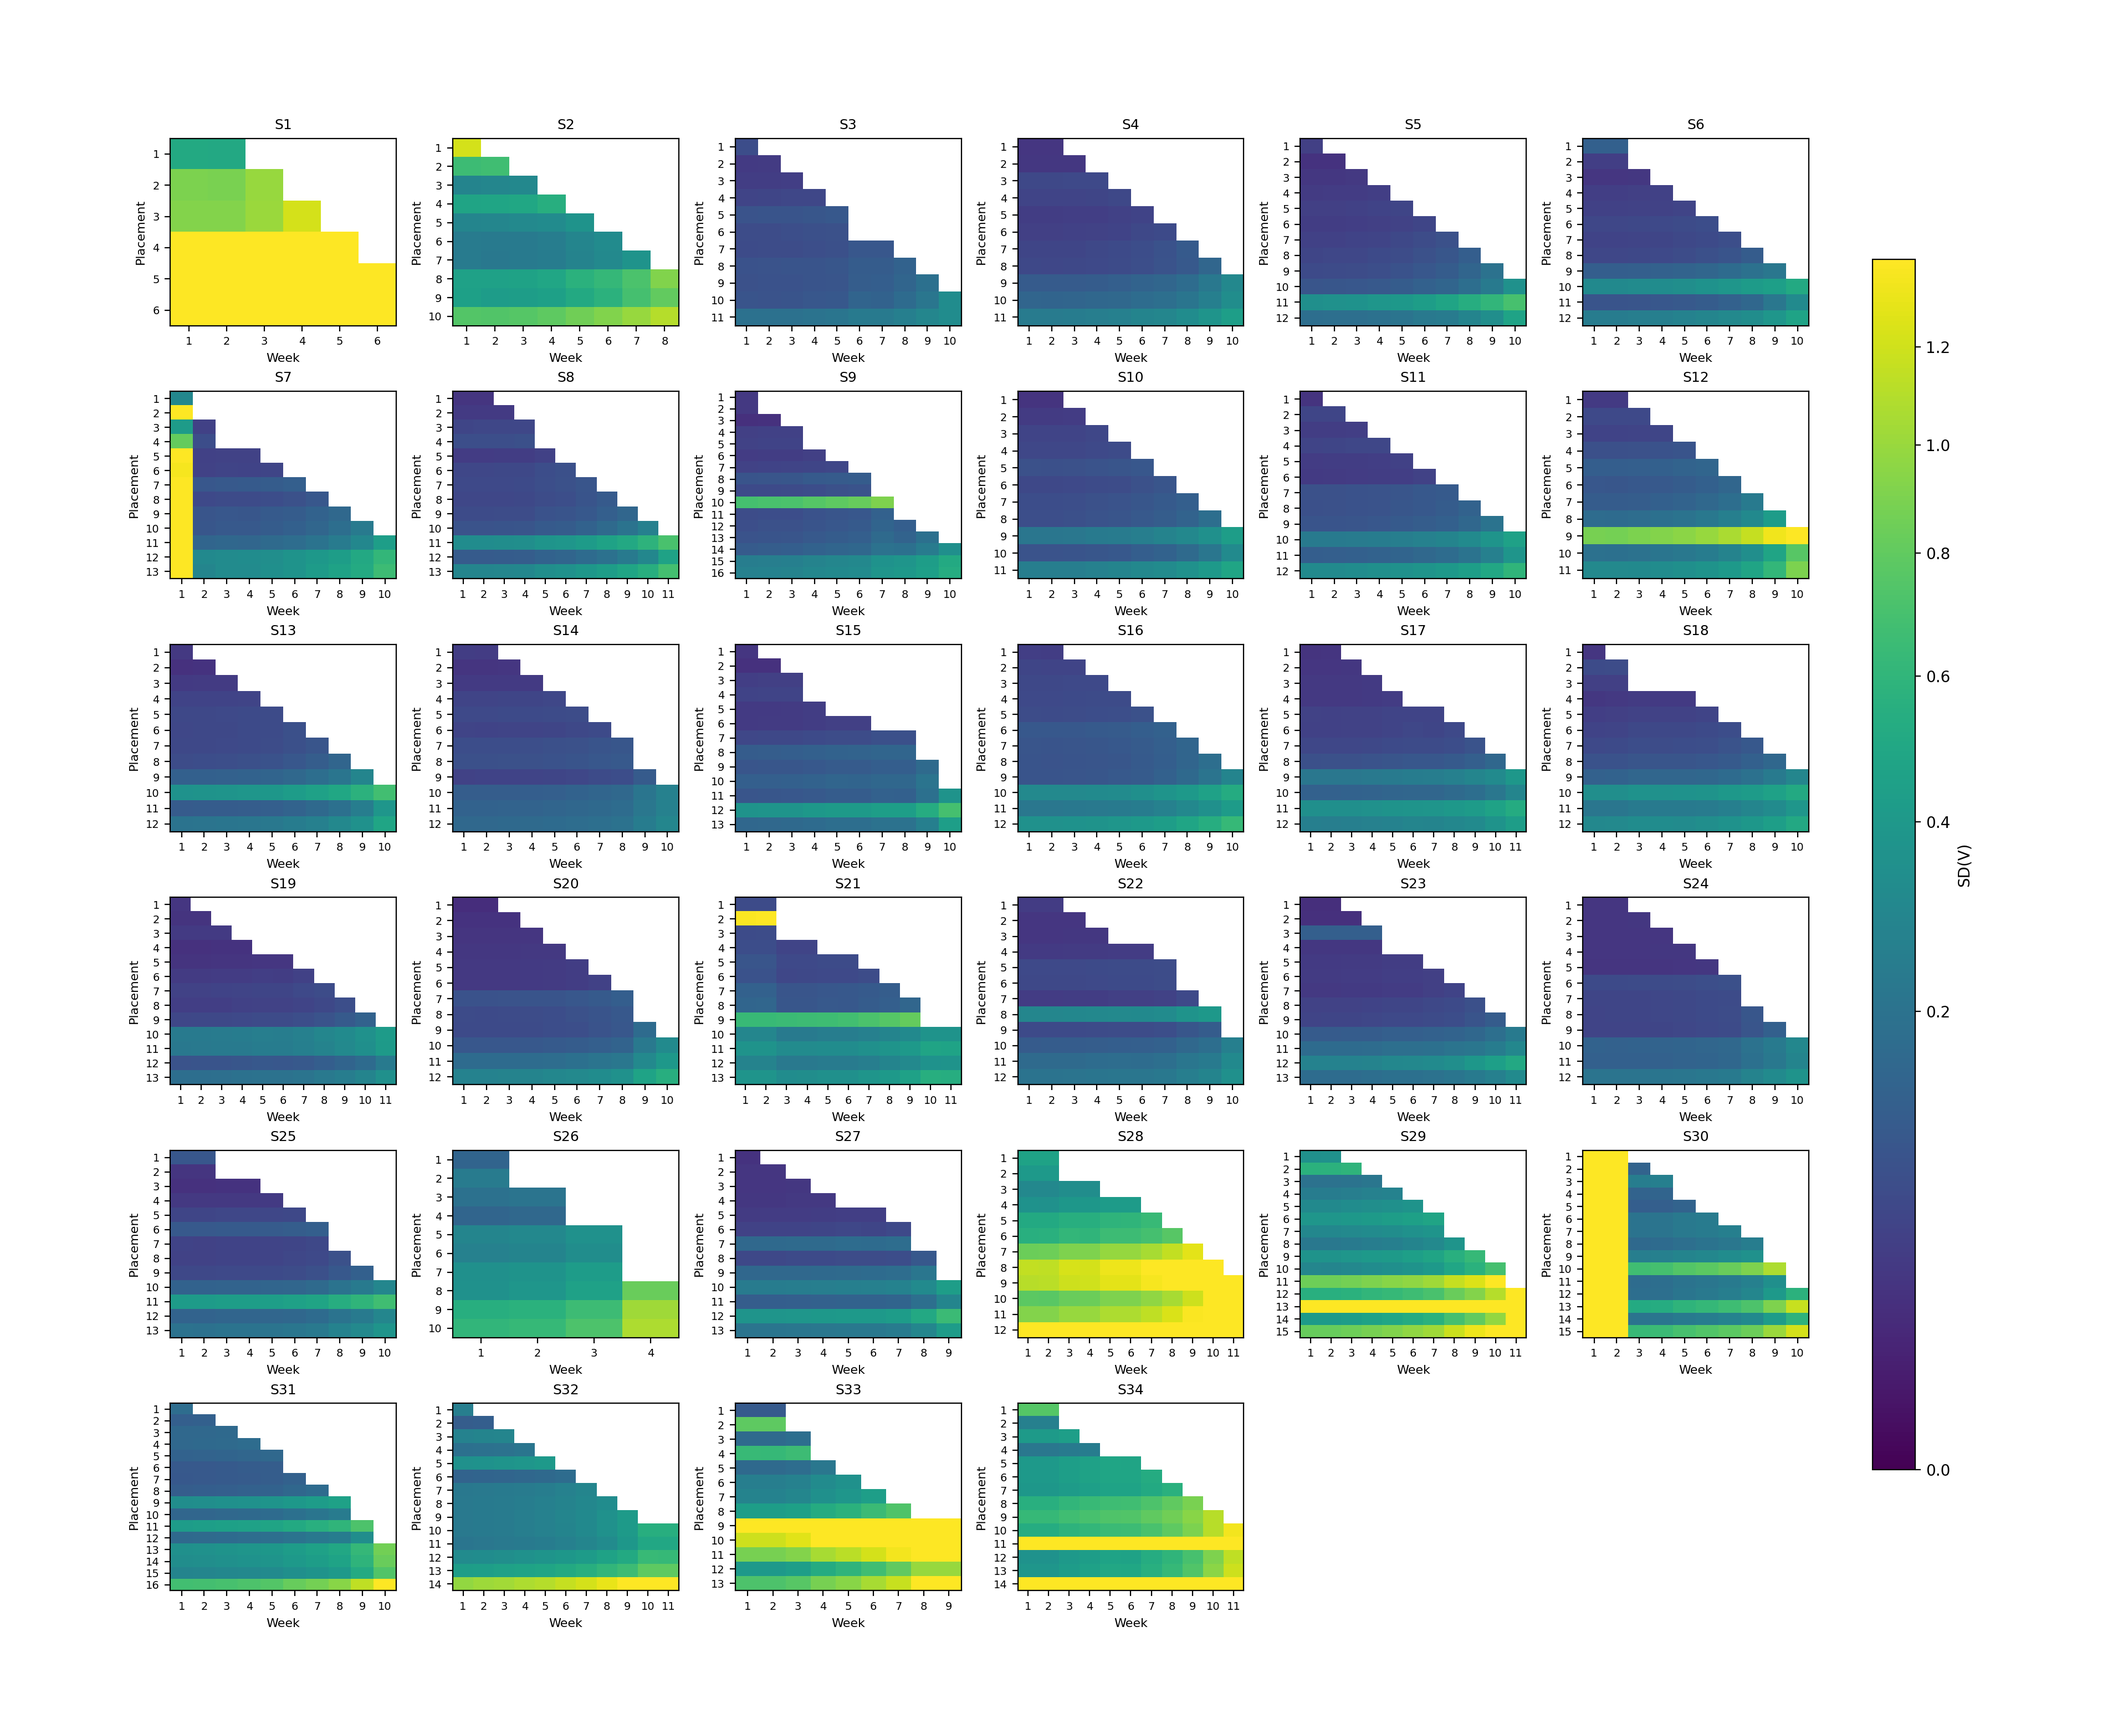
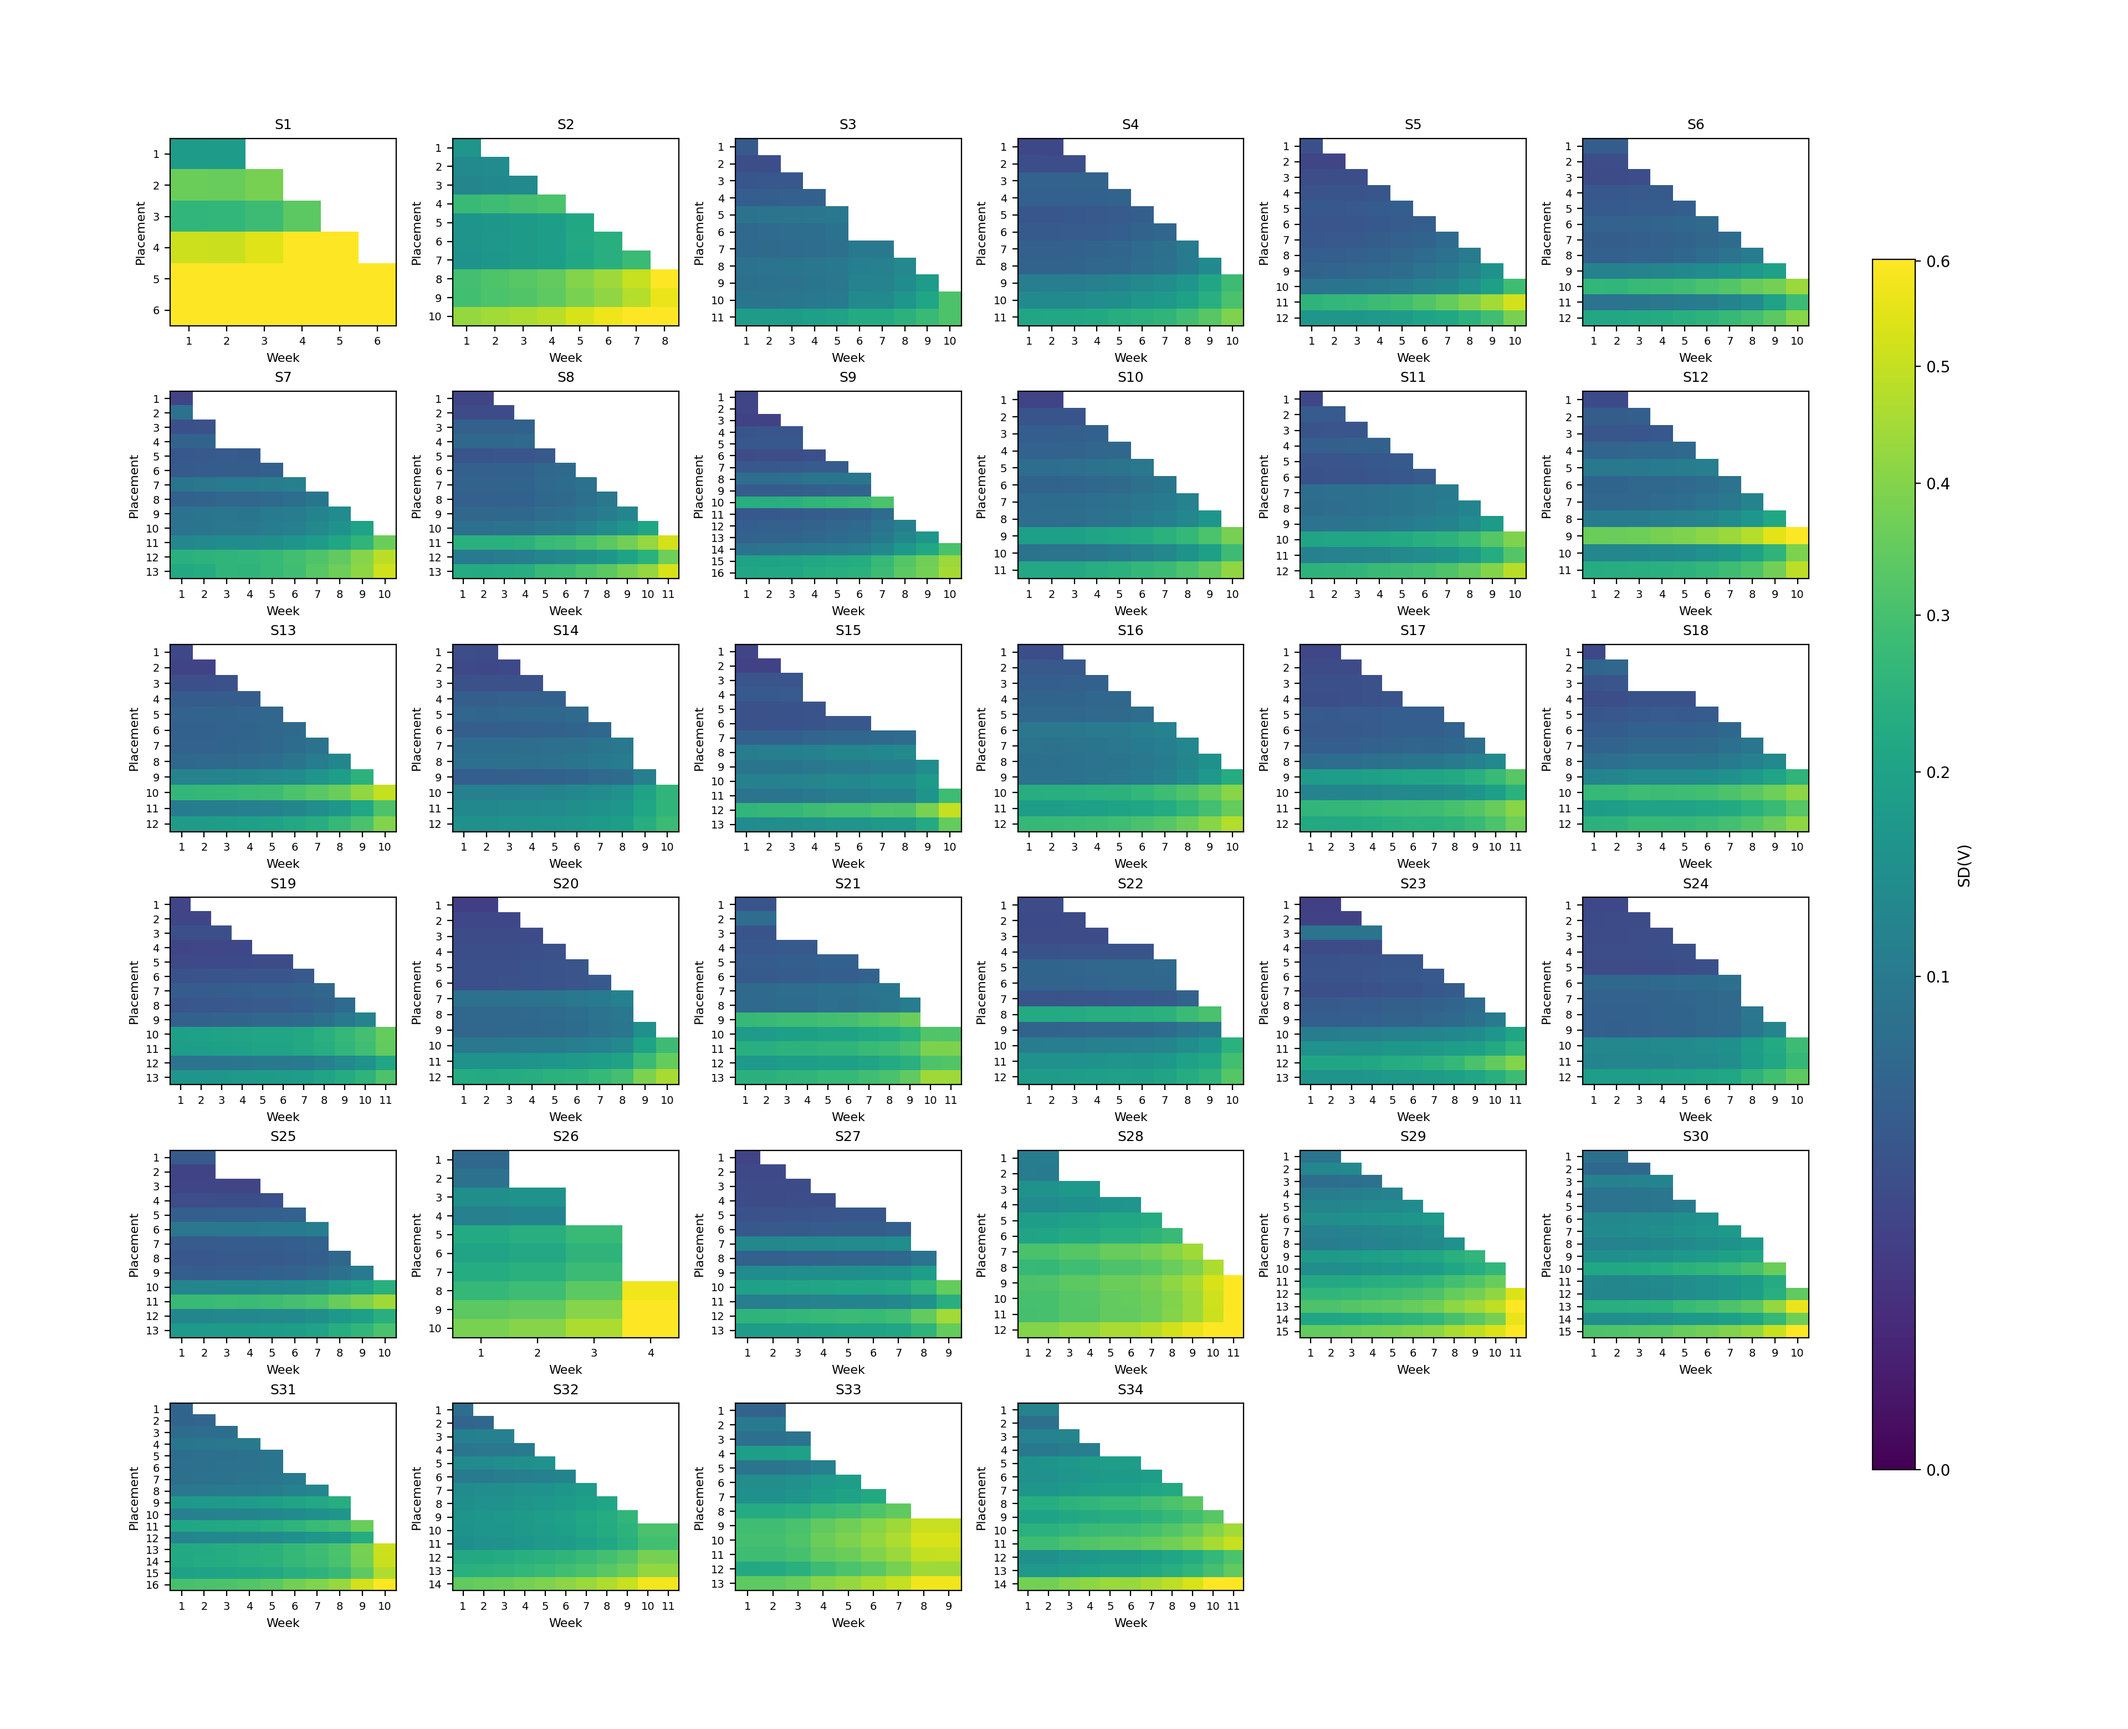
2.1 方差修正

diff --git a/train.py b/train.py
@@ -432,14 +432,16 @@ def compute_fisher_diag(model: VotingModel, events: List[Event]) -> Dict[str, to
     }
 
 
-def sd_delta_method(model: VotingModel, events: List[Event], fisher_diag: Dict[str, torch.Tensor]):
+def sd_delta_method(model: VotingModel, events: List[Event], fisher_diag: Dict[str, torch.Tensor], damp: float = 0.0):
     # 使用 Delta 方法：Var(V_a) ≈ sum_j (∂V_a/∂θ_j)^2 Var(θ_j)，SD = sqrt(Var)
     eps = 1e-12
-    var_gamma = 1.0 / torch.clamp(fisher_diag["gamma"], min=eps)
-    var_d1p = float((1.0 / torch.clamp(fisher_diag["d1p"], min=eps)).item())
-    var_d2p = float((1.0 / torch.clamp(fisher_diag["d2p"], min=eps)).item())
-    var_d1r = float((1.0 / torch.clamp(fisher_diag["d1r"], min=eps)).item())
-    var_d2r = float((1.0 / torch.clamp(fisher_diag["d2r"], min=eps)).item())
+    # 阻尼逆协方差：(H + λI)^{-1}，在对角近似下等价为 1/(Fisher_diag + λ)
+    lam = float(max(damp, 0.0))
+    var_gamma = 1.0 / (torch.clamp(fisher_diag["gamma"], min=eps) + lam)
+    var_d1p = float((1.0 / (torch.clamp(fisher_diag["d1p"], min=eps) + lam)).item())
+    var_d2p = float((1.0 / (torch.clamp(fisher_diag["d2p"], min=eps) + lam)).item())
+    var_d1r = float((1.0 / (torch.clamp(fisher_diag["d1r"], min=eps) + lam)).item())
+    var_d2r = float((1.0 / (torch.clamp(fisher_diag["d2r"], min=eps) + lam)).item())
 
     sd_map: Dict[Tuple[int, int], np.ndarray] = {}
     meanV_map: Dict[Tuple[int, int], np.ndarray] = {}
@@ -463,7 +465,7 @@ def sd_delta_method(model: VotingModel, events: List[Event], fisher_diag: Dict[s
         V_soft = torch.softmax(P, dim=0)
         sd_vals = np.zeros_like(meanV)
         # Fisher 对角：转为 numpy 以做索引
-        var_gamma_np = (1.0 / torch.clamp(fisher_diag["gamma"], min=eps)).detach().cpu().numpy()
+        var_gamma_np = (1.0 / (torch.clamp(fisher_diag["gamma"], min=eps) + lam)).detach().cpu().numpy()
         for a in range(len(ev.active_ids)):
             model.zero_grad()
             grads = torch.autograd.grad(V_soft[a], [model.gamma, d1_param, d2_param], retain_graph=True, allow_unused=True)
@@ -521,7 +523,7 @@ def plot_sd_panels(df: pd.DataFrame, contestants: List[Contestant], events: List
     if all_vals:
         concat = np.concatenate(all_vals)
         try:
-            vmax_global = float(np.percentile(concat, 95))
+            vmax_global = float(np.percentile(concat, 99))
         except Exception:
             vmax_global = float(np.nanmax(concat)) if np.isfinite(np.nanmax(concat)) else 1.0
         if not (np.isfinite(vmax_global) and vmax_global > 0):
@@ -1018,7 +1020,7 @@ def train(data_path: str, out_dir: str, epochs: int = 200, lr: float = 0.05, wee
     )
 
 
-def infer(data_path: str, best_path: str, out_dir: str, weeks: int = 11, samples: int = 200):
+def infer(data_path: str, best_path: str, out_dir: str, weeks: int = 11, damp: float = 0.0):
     df = pd.read_csv(data_path, dtype=str)
     df["season"] = pd.to_numeric(df["season"], errors="coerce")
     df["index"] = pd.to_numeric(df["index"], errors="coerce")
@@ -1033,7 +1035,7 @@ def infer(data_path: str, best_path: str, out_dir: str, weeks: int = 11, samples
     # Fisher 对角近似
     fisher_diag = compute_fisher_diag(model, events)
     # 使用 Delta 方法计算 SD 与 mean(V)
-    sd_map, meanV_map = sd_delta_method(model, events, fisher_diag)
+    sd_map, meanV_map = sd_delta_method(model, events, fisher_diag, damp=damp)
     # 输出 SD 面板图与 mean(V) 面板图，附带色阶
     os.makedirs(out_dir, exist_ok=True)
     plot_sd_panels(df, contestants, events, sd_map, os.path.join(out_dir, "sd_panels.png"))
@@ -1073,14 +1075,14 @@ def main():
     parser.add_argument("--epochs", type=int, default=50, help="训练轮数")
     parser.add_argument("--lr", type=float, default=0.05, help="学习率")
     parser.add_argument("--weeks", type=int, default=11, help="最大周数")
-    parser.add_argument("--samples", type=int, default=200, help="infer 模式下蒙特卡洛样本数")
+    parser.add_argument("--damp", type=float, default=1e-1, help="SD 计算的阻尼 λ (damping) 用于稳定协方差")
     args = parser.parse_args()
     if args.mode == "train":
         train(args.data, args.out, epochs=args.epochs, lr=args.lr, weeks=args.weeks)
     else:
         # 推理输出不要与 artifacts 混放，使用单独目录
         infer_out = args.out if args.out != "artifacts" else os.path.join("analysis")
-        infer(args.data, args.best, out_dir=infer_out, weeks=args.weeks, samples=args.samples)
+        infer(args.data, args.best, out_dir=infer_out, weeks=args.weeks, damp=args.damp)
 
 
 if __name__ == "__main__":

diff --git a/model.md b/model.md
@@ -178,9 +178,10 @@ $$
 接下来我们需要参数协方差矩阵 $\Sigma_\theta$：
 
 $$
-\Sigma_\theta = -\left[\nabla^2 \mathcal{L}(\hat{\theta})\right]^{-1}
+\Sigma_\theta = \left[-\nabla^2 \mathcal{L}(\hat{\theta})+\lambda I\right]^{-1}
 $$
-其中 $\nabla^2 \mathcal{L}(\hat{\theta})$ 是**对数似然函数在最优参数 $\hat{\theta}$ 处的Hessian矩阵**。
+
+其中 $\nabla^2 \mathcal{L}(\hat{\theta})$ 是**对数似然函数在最优参数 $\hat{\theta}$ 处的Hessian矩阵**，$\lambda$ 是一个小的正数，用于数值稳定性。
 
 对于你的模型，对数似然为：
 $$
